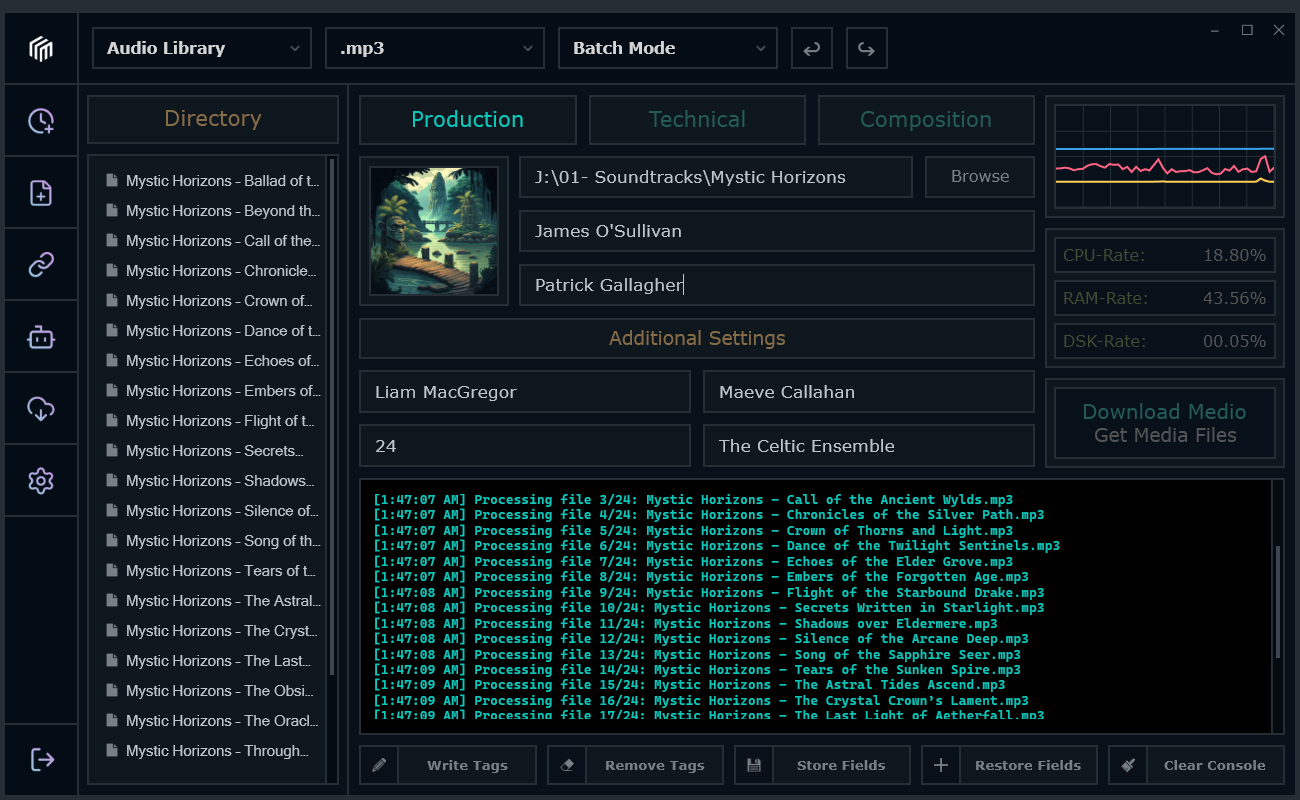
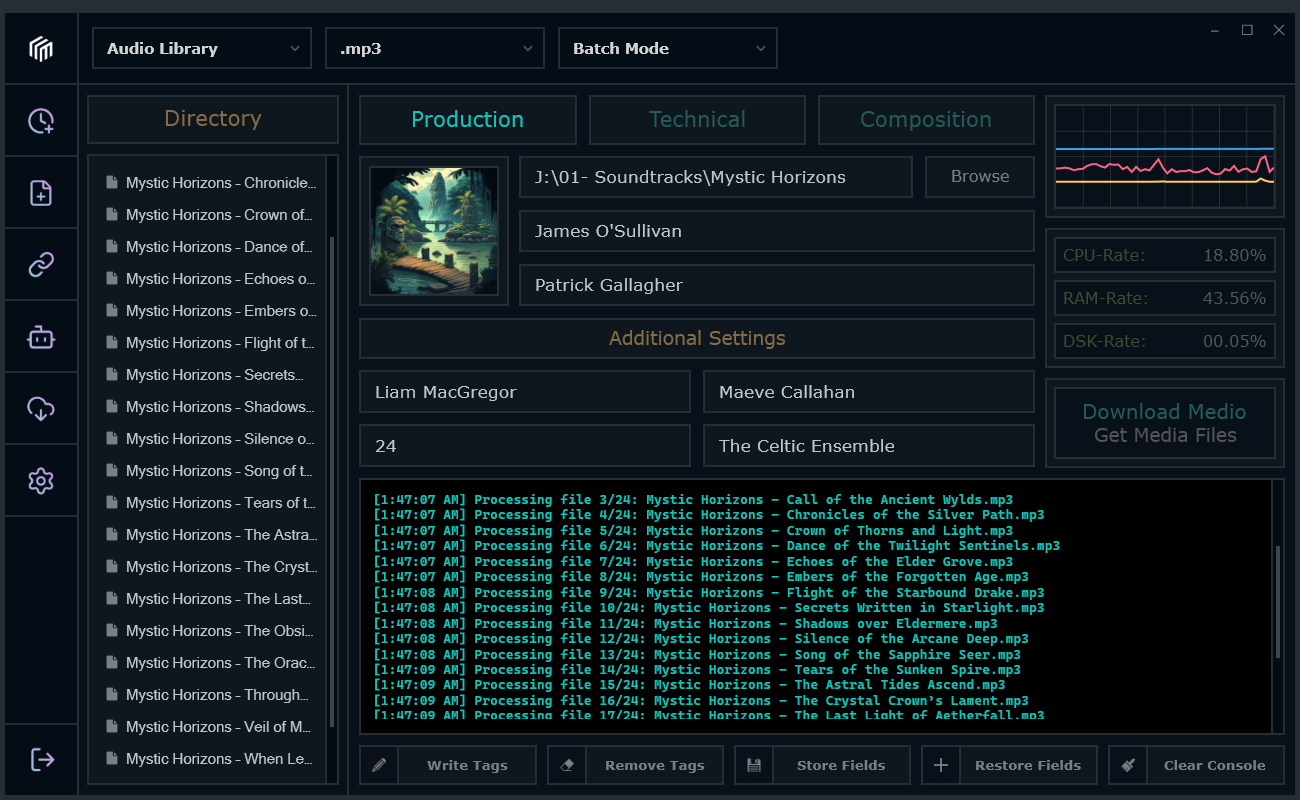
Version 1.1.5

diff --git a/README.md b/README.md
@@ -207,8 +207,6 @@ MetaEdit Plus provides five main action buttons for managing metadata:
 | **Store Fields** | Saves the current field configuration with a timestamp for later use (fields are preserved, not cleared) |
 | **Restore Fields** | Opens a dropdown menu to select and load a previously saved configuration |
 | **Clear Console** | Clears all messages from the console output panel |
-| **Undo** | Reverses the last tag operation. Supports multiple undo levels for Write Tags, Remove Tags, and Auto-Tag. |
-| **Redo** | Re-applies an undone tag operation. Available after using Undo. |
 
 ## **Field Storage System**
 
